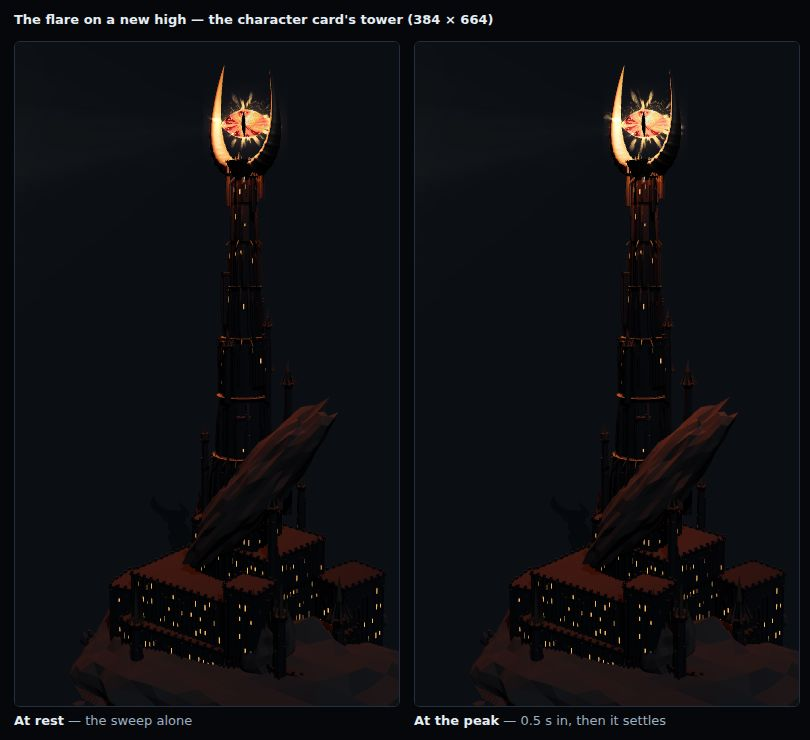
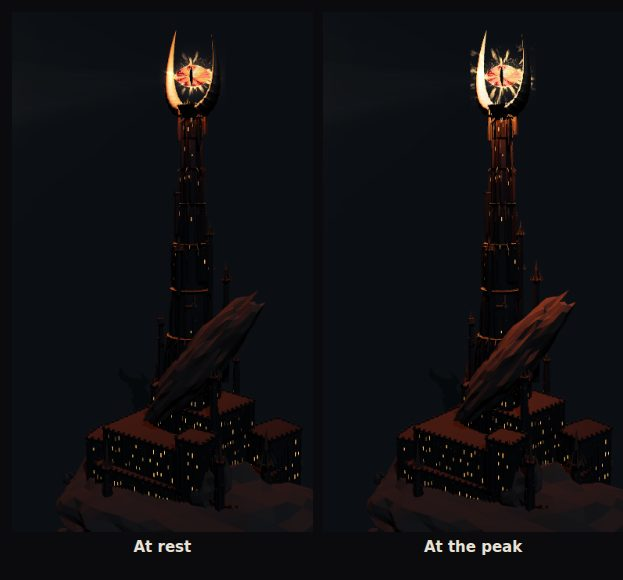
feat(tower): the flare's energy goes outward — rim fire, horn light and sparks, the pupil kept
Eric on #3972: "There is room to increase the energy/glow from the eye." A
measured ladder showed that lifting the Eye's own fire past about x2 only
drives the iris toward white under ACES (the pupil fades) while the crown's
brightest 2% gains a few levels at most. The energy now leaves the Eye
instead: glow lights x4 on the horns and crown stone, rim fire reach x2.8,
sparks x4; the Eye's own fire x1.6 so the iris stays red and the pupil reads.
The old "never more than doubles" pin is replaced by two: the Eye's fire
stays under double, and every light stays at or under four times itself.

Claude-Session: https://claude.ai/code/session_011dRYFczDCJCCsK6MjFZwPq

diff --git a/src/three/kit/flare.ts b/src/three/kit/flare.ts
@@ -29,8 +29,16 @@ export const FLARE_SECONDS = FLARE.attack + FLARE.hold + FLARE.release;
  * How far each light rises at the peak, as a fraction of its resting self: the Eye's own fire (its
  * warm ramp only — the electric lines stay as quiet as they were), the glow lights that light its
  * crown, the reach of the fire round its rim, and the embers shed off it.
+ *
+ * THE ENERGY GOES OUTWARD, NOT INTO THE CORE (Eric on #3972, 2026-09-29: "There is room to increase
+ * the energy/glow from the eye"). A ladder was rendered and measured (the PR's picture): raising the
+ * Eye's own fire past about ×2 only drives the iris toward white under ACES — the pupil fades, which
+ * is the figure lost to the ground (docs/art/EYE.md) — and the brightest 2% of the crown frame gains
+ * a few levels at most (231 → 249 of 255 from ×1.5 to ×4). What reads as more energy is light that
+ * leaves the Eye: the glow lights on the horns and crown stone, the fire round the rim, the sparks.
+ * So the core stays a modest lift and those three carry the flare.
  */
-export const FLARE_PEAK = { body: 0.5, glow: 0.7, reach: 0.5, embers: 0.8 } as const;
+export const FLARE_PEAK = { body: 0.6, glow: 3.0, reach: 1.8, embers: 3.0 } as const;
 
 const smooth = (x: number): number => {
   const c = Math.min(1, Math.max(0, x));

diff --git a/tests/three/flare.spec.ts b/tests/three/flare.spec.ts
@@ -53,8 +53,15 @@ describe("flareGain — a bounded multiple of the resting light", () => {
     expect(flareGain(-1, "reach")).toBe(1);
   });
 
-  it("never more than doubles any light", () => {
-    for (const peak of Object.values(FLARE_PEAK)) expect(peak).toBeLessThan(1);
+  it("keeps the Eye's own fire under double, so the pupil stays readable at the peak", () => {
+    expect(FLARE_PEAK.body).toBeLessThan(1);
+  });
+
+  it("carries the energy outward, and bounds it: no light rises past four times itself", () => {
+    for (const light of ["glow", "reach", "embers"] as const) {
+      expect(FLARE_PEAK[light]).toBeGreaterThan(FLARE_PEAK.body);
+    }
+    for (const peak of Object.values(FLARE_PEAK)) expect(peak).toBeLessThanOrEqual(3);
   });
 });
 
